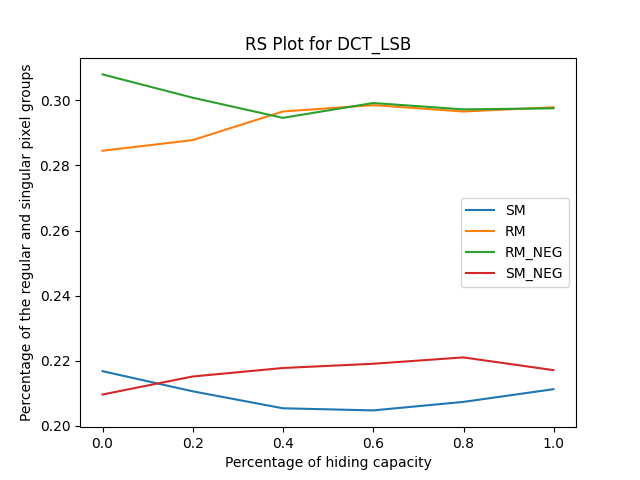
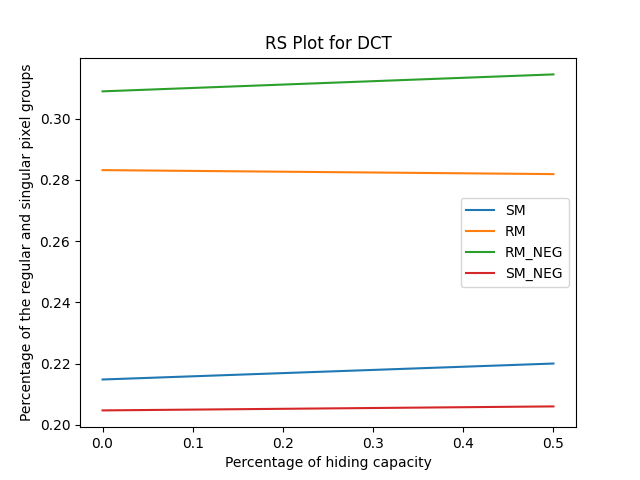
plots for psnr and rs

diff --git a/plot_metrics.py b/plot_metrics.py
@@ -10,7 +10,7 @@ import steganography as stego
 import metrics as metriclib
 from metrics import Metric
 
-def plot_psnr_graph(cover_img: cv2.Mat, full_secret: bytes, file_to_save: str, hidden_capacity_perc: int = 5) -> None:
+def plot_psnr_graph(cover_img: cv2.Mat, full_secret: bytes, file_to_save: str, hidden_capacity_perc: int = 2) -> None:
     """
     Save psnr plot for given cover_img for different hiding
     if cover_img is not grayscale, will be using grayscale
@@ -22,7 +22,7 @@ def plot_psnr_graph(cover_img: cv2.Mat, full_secret: bytes, file_to_save: str, h
 
     size = np.prod(cover_img.shape)//8
     perc_increment = hidden_capacity_perc
-    stego_modes = [stego.Mode.LSB, stego.Mode.DCT_LSB]
+    stego_modes = [stego.Mode.LSB, stego.Mode.DCT]
     mode_to_psnr = {stego_method:[] for stego_method in stego_modes}
     x = []
 
@@ -30,7 +30,7 @@ def plot_psnr_graph(cover_img: cv2.Mat, full_secret: bytes, file_to_save: str, h
     for hidden_capacity in range(1, size, size//perc_increment):
         for stego_method in mode_to_psnr:
             secret = full_secret[:hidden_capacity]
-            stego_img = stego.hide(Image(cover_img), secret, mode=stego_method).array if hidden_capacity > 0 else cover_img
+            stego_img = stego.hide(Image(cover_img), secret, stego_method).matrix if hidden_capacity > 0 else cover_img
 
             cv2.imwrite(f"{stego_method.name}_{hidden_capacity/size * 100}.png", stego_img)
 
@@ -50,7 +50,7 @@ def plot_psnr_graph(cover_img: cv2.Mat, full_secret: bytes, file_to_save: str, h
     plt.savefig(file_to_save)
 
 
-def plot_rs_graph(cover_img: cv2.Mat, full_secret: bytes, file_to_save: str, hidden_capacity_perc: int = 5, stego_method = None) -> None:
+def plot_rs_graph(cover_img: cv2.Mat, full_secret: bytes, file_to_save: str, hidden_capacity_perc: int = 2, stego_method = None) -> None:
     """
     Save rs plot for the given cover_img storing full_secret at different capacities
     if cover_img is not grayscale, will be using grayscale
@@ -72,7 +72,7 @@ def plot_rs_graph(cover_img: cv2.Mat, full_secret: bytes, file_to_save: str, hid
         secret = full_secret[:hidden_capacity]
         img = cover_img
         if stego_method:
-            img = stego.hide(Image(cover_img), secret, mode=stego_method).array  # NOTE: i changed the API; will tidy up later
+            img = stego.hide(Image(cover_img), secret, mode=stego_method).matrix  # NOTE: i changed the API; will tidy up later
         elif hidden_capacity == 0:
             img = cover_img.astype(np.float64)
         rm, sm, rm_neg, sm_neg = metriclib.get_rs(img)
@@ -104,8 +104,8 @@ if __name__ == "__main__":
     with open('secret.txt', 'rb') as f:
         secret_text = f.read()
     
-
-    plot_rs_graph(cover_img.array, secret_text, 'rs_plot_LSB.png', stego_method=stego.Mode.LSB)
-    plot_rs_graph(cover_img.array, secret_text, 'rs_plot_orig.png')
-    plot_rs_graph(cover_img.array, secret_text, 'rs_plot_DCT_LSB.png', stego_method=stego.Mode.DCT_LSB)
-    plot_psnr_graph(cover_img.array, secret_text, 'psnr_plot.png')
+    cover_array = cover_img.matrix
+    plot_rs_graph(cover_array, secret_text, 'rs_plot_LSB.png', stego_method=stego.Mode.LSB)
+    plot_rs_graph(cover_array, secret_text, 'rs_plot_orig.png')
+    plot_rs_graph(cover_array, secret_text, 'rs_plot_DCT_LSB.png', stego_method=stego.Mode.DCT)
+    plot_psnr_graph(cover_array, secret_text, 'psnr_plot.png')

diff --git a/lsb.py b/lsb.py
@@ -1,7 +1,7 @@
 import numpy as np
 import numpy.typing as npt
 from numpy.random import Generator, PCG64
-from typing import TypeVar
+from typing import TypeVar, Tuple
 
 T = TypeVar('T', bound=np.integer)
 IntArray = npt.NDArray[T]
@@ -40,7 +40,7 @@ def extract(stego_mat: IntArray, key: bytes = None, num_lsb: int = 1) -> bytes:
 
     return _merge_to_bytes(flat_stego, num_lsb)
 
-def _generate_permutation(key: bytes, n: int) -> tuple[IntArray, IntArray]:
+def _generate_permutation(key: bytes, n: int) -> Tuple[IntArray, IntArray]:
     seed = int.from_bytes(key, byteorder='big')
     rng = Generator(PCG64(seed))
 
